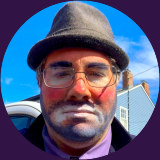
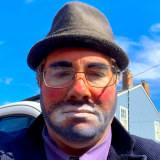
Doc Leo's photo is the whole square picture Lewis gave (the-bard-of-bizarre-lewie.jpg), not the round profile crop, so his instant prints show sky in their corners; Third Goat from the Left rebuilt

Changed region(s): [[0.0, 0.0, 1.0, 1.0]]

diff --git a/games/goat/tools/scans.ts b/games/goat/tools/scans.ts
@@ -1,7 +1,9 @@
 // "Scanned" for THIRD GOAT FROM THE LEFT: the song's cover art, The Bard of Bizarre's logo and
-// Doc Leo's profile picture (Lewis's own, in .for-lewis/songs/goat, not in git) cut down to
+// Doc Leo's profile picture (Lewis's own, in .for-lewis/songs, not in git) cut down to
 // small JPEGs in games/kit/scans, which the build dithers into its pictures (kit/photo.ts).
-// Transparent corners are laid on the color each picture is pasted over.
+// Transparent corners are laid on the color each picture is pasted over. Doc Leo's picture is
+// the whole square photo, not the round-cropped profile picture, so the square instant prints
+// it is pasted into show the sky in their corners (it shows no house number or plate).
 //
 // Run once (needs ffmpeg and cjpeg): cd web && npx vite-node ../games/goat/tools/scans.ts
 import { spawnSync } from 'node:child_process';
@@ -9,20 +11,20 @@ import { mkdtempSync, rmSync, writeFileSync } from 'node:fs';
 import { tmpdir } from 'node:os';
 import { join, resolve } from 'node:path';
 
-const SONG = resolve(__dirname, '../../../.for-lewis/songs/goat');
+const SONGS = resolve(__dirname, '../../../.for-lewis/songs');
 const OUT = resolve(__dirname, '../../kit/scans');
 
 const SCANS: { name: string; file: string; size: number; matte: string }[] = [
-  { name: 'goatcover', file: 'third-goat-from-the-left-cover-art.png', size: 256, matte: 'black' },
-  { name: 'bardlogo', file: 'bard-of-bizarre-logo_900x900_buffer.png', size: 200, matte: '0x341446' },
-  { name: 'docleo', file: 'the bard of bizarre.png', size: 160, matte: '0x341446' },
+  { name: 'goatcover', file: 'goat/third-goat-from-the-left-cover-art.png', size: 256, matte: 'black' },
+  { name: 'bardlogo', file: 'goat/bard-of-bizarre-logo_900x900_buffer.png', size: 200, matte: '0x341446' },
+  { name: 'docleo', file: 'the-bard-of-bizarre-lewie.jpg', size: 160, matte: '0x341446' },
 ];
 
 for (const s of SCANS) {
   const r = spawnSync(
     'ffmpeg',
     [
-      '-v', 'error', '-i', join(SONG, s.file),
+      '-v', 'error', '-i', join(SONGS, s.file),
       '-f', 'lavfi', '-i', `color=c=${s.matte}:s=${s.size}x${s.size}`,
       '-filter_complex', `[0:v]scale=${s.size}:${s.size}:flags=area,format=rgba[f];[1:v][f]overlay=format=auto,format=rgb24`,
       '-frames:v', '1', '-f', 'rawvideo', '-pix_fmt', 'rgb24', '-',
